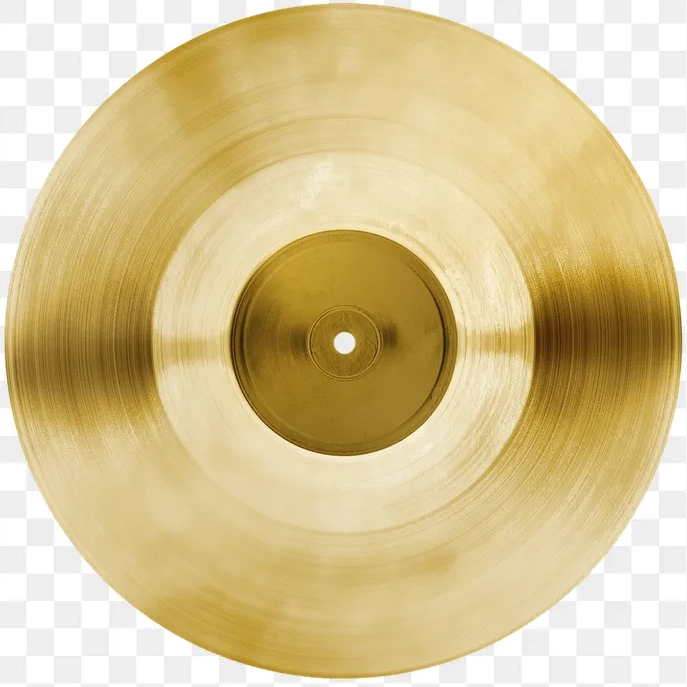
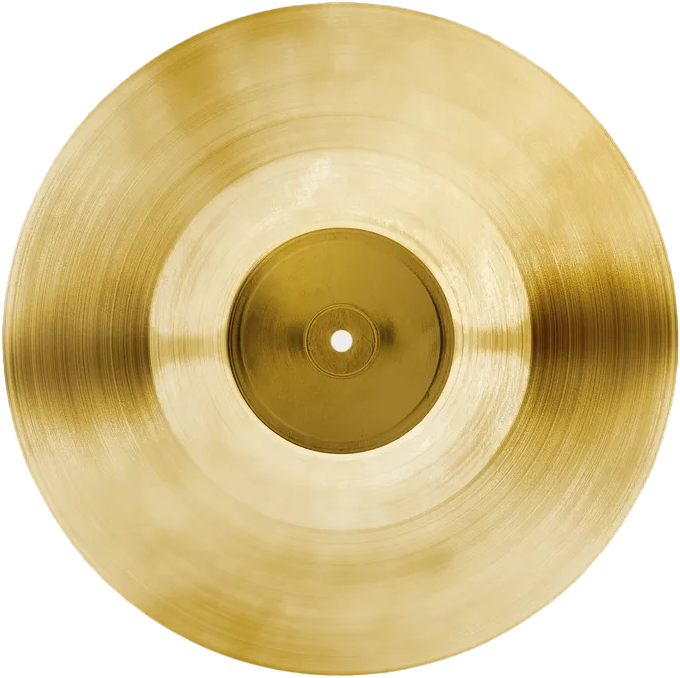
featured products 2

diff --git a/index.html b/index.html
@@ -117,7 +117,7 @@
     <div class="featureproducts">
       <h3>featured products</h3>
 
-      <div class="flex-container">
+      <div class="grid-container">
 
 <!-- item one -->
 
@@ -125,23 +125,21 @@
 
              <div class='vinyl'>
 
-             <img class='sleeve' src="images/cover_silk_sonic.jpg" alt="silk sonic" id="cover_1">
+             <img class='sleeve' src="./images/cover_silk_sonic.jpg" alt="silk sonic" id="cover_1">
              
-             <div class='record'>
-            </div>
+             <img class='record' src="./images/record_silk_sonic.png" alt="silk sonic record" id="record_1">
+            
         </div>
         <div id="grad1"></div>
        
       <div class="record_info">
       
-        <h5>Silk Sonic</h5>
-      <p>Silk Sonics debut project is announced! Featuring the singles Leave The Door Open and Skate, this is the highly anticipated joint release from two of the worlds best music makers.
-Silk Sonic won the BET Award for Best Group and the MTV Video Award for Best R&B Video and Best Editing for Leave The Door Open.</p>
-              
+        <h5>silk sonic</h5>
+      <p>Lorem, ipsum dolor sit amet consectetur adipisicing elit. Similique, unde esse voluptatum necessitatibus explicabo reprehenderit qui aut cum placeat dicta.
       </div>
 
           <div class="price-buy-now-container">
-            <h4>$80.00</h4>
+            <h4>aud $80.00</h4>
             <button><a href="#">Buy Now</a></button>
           </div>
     
@@ -153,26 +151,76 @@ Silk Sonic won the BET Award for Best Group and the MTV Video Award for Best R&B
 
              <div class='vinyl'>
 
-             <img class='sleeve' src="images/cover_silk_sonic.jpg" alt="silk sonic" id="cover_1">
+             <img class='sleeve' src="./images/cover_janis-joplin.jpeg" alt="silk sonic" id="cover_2">
              
-             <div class='record'>
-            </div>
+             <img class='record' src="./images/record_janis-record-joplin-janis.png" alt="silk sonic record" id="record_2">
+            
         </div>
         <div id="grad1"></div>
        
       <div class="record_info">
       
-        <h5>Silk Sonic</h5>
-      <p>Silk Sonics debut project is announced! Featuring the singles Leave The Door Open and Skate, this is the highly anticipated joint release from two of the worlds best music makers.
-Silk Sonic won the BET Award for Best Group and the MTV Video Award for Best R&B Video and Best Editing for Leave The Door Open.</p>
-              
+        <h5>janis joplin greatest hits</h5>
+      <p>Lorem, ipsum dolor sit amet consectetur adipisicing elit. Similique, unde esse voluptatum necessitatibus explicabo reprehenderit qui aut cum placeat dicta.
       </div>
 
           <div class="price-buy-now-container">
-            <h4>$80.00</h4>
+            <h4>aud $80.00</h4>
             <button><a href="#">Buy Now</a></button>
           </div>
     
+     </div>
+    <!-- item three -->
+
+        <div class="record_item">
+
+             <div class='vinyl'>
+
+             <img class='sleeve' src="./images/cover_silk_sonic.jpg" alt="silk sonic" id="cover_3">
+             
+             <img class='record' src="./images/record_silk_sonic.png" alt="silk sonic record" id="record_3">
+            
+        </div>
+        <div id="grad1"></div>
+       
+      <div class="record_info">
+      
+        <h5>silk sonic</h5>
+      <p>Lorem, ipsum dolor sit amet consectetur adipisicing elit. Similique, unde esse voluptatum necessitatibus explicabo reprehenderit qui aut cum placeat dicta.
+      </div>
+
+          <div class="price-buy-now-container">
+            <h4>aud $80.00</h4>
+            <button><a href="#">Buy Now</a></button>
+          </div>
+    
+     </div>
+
+<!-- item four -->
+
+        <div class="record_item">
+
+             <div class='vinyl'>
+
+             <img class='sleeve' src="./images/cover_janis-joplin.jpeg" alt="silk sonic" id="cover_4">
+             
+             <img class='record' src="./images/record_janis-record-joplin-janis.png" alt="silk sonic record" id="record_4">
+            
+        </div>
+        <div id="grad1"></div>
+       
+      <div class="record_info">
+      
+        <h5>janis joplin greatest hits</h5>
+      <p>Lorem, ipsum dolor sit amet consectetur adipisicing elit. Similique, unde esse voluptatum necessitatibus explicabo reprehenderit qui aut cum placeat dicta.
+      </div>
+
+          <div class="price-buy-now-container">
+            <h4>aud $80.00</h4>
+            <button><a href="#">Buy Now</a></button>
+          </div>
+    
+     </div>
      </div>
 
   

diff --git a/style.css b/style.css
@@ -262,24 +262,33 @@ button:hover {
   background-color: #fdfbf2;
 }
 
-.flex-container {
+h3 {
+  text-transform: uppercase;
+  font-weight: 500;
+  color: black;
+  font-size: 18px;
+  margin: 0px;
+  padding: 25px 10px 5px 10px;
+}
+
+.grid-container {
   display: grid;
-  flex-direction: column;
-  align-items: center;
+  grid-template-columns: 1fr;
+  justify-items: center;
+  column-gap: 10px;
+  row-gap: 15px;
+  overflow: hidden;
   padding: 10px;
-  background-color: DodgerBlue;
+  background-color: #fdfbf2;
 }
 
 .record_item {
   width: 100%;
   margin: 10px 10px;
-  background-color: rgb(244, 8, 173);
-  display: flex;
-  justify-content: center;
-  flex-direction: column;
-  height: 580px;
-  padding: 10px;
-  border-radius: 5px;
+  background-color: white;
+  height: 500px;
+  padding: 0px;
+  border-radius: 7px;
 }
 
 .record_info {
@@ -288,40 +297,36 @@ button:hover {
   line-height: normal;
   color: black;
   margin: 0;
-  padding: 25px 5px 5px 5px;
+  padding: 10px;
 }
 
 .vinyl {
   height: 320px;
   width: 100%;
-  background-image: linear-gradient(
-    to top,
-    rgba(255, 0, 0, 1),
-    rgba(255, 0, 0, 0)
-  );
+  padding: 10px;
+  background-image: linear-gradient(to bottom, #fdfbf2, rgba(255, 0, 0, 0));
 }
 
 .sleeve {
-  height: 300px;
-  width: 300px;
+  height: 290px;
+  width: 290px;
   position: absolute;
 }
 
 .record {
-  background: gold;
-  margin: 10px;
+  padding: 5px 0px;
   height: 285px;
   width: 285px;
-  border-radius: 50%;
   transition: 500ms;
   transition-timing-function: ease-out;
 }
 
 .vinyl:hover .record {
-  margin-left: 80px;
+  margin-left: 70px;
 }
 
 h5 {
+  text-transform: capitalize;
   color: black;
   font-size: 20px;
   font-weight: bold;
@@ -335,10 +340,11 @@ h5 {
   text-align: left;
   list-style-type: none;
   margin: 0;
-  padding: 5px;
+  padding: 10px;
 }
 
 .price-buy-now-container h4 {
+  text-transform: uppercase;
   color: black;
   font-size: 20px;
   font-weight: bold;
@@ -431,6 +437,10 @@ h5 {
     margin: 0;
     z-index: 5;
   }
+
+  .grid-container {
+    grid-template-columns: 1fr 1fr;
+  }
 }
 
 @media screen and (min-width: 992px) {
@@ -439,5 +449,41 @@ h5 {
     padding-right: 40px;
     padding-top: 18px;
     padding-bottom: 18px;
+  }
+}
+
+@media screen and (min-width: 1200px) {
+  .grid-container {
+    grid-template-columns: 1fr 1fr 1fr 1fr;
+  }
+
+  .record_item {
+    height: 420px;
+  }
+
+  .record_info {
+    padding: 10px 10px 0px;
+  }
+
+  .vinyl {
+    height: 220px;
+  }
+
+  .sleeve {
+    height: 200px;
+    width: 200px;
+  }
+  .price-buy-now-container h4 {
+    font-size: 18px;
+    font-weight: bold;
+  }
+
+  .record {
+    height: 190px;
+    width: 190px;
+  }
+
+  .vinyl:hover .record {
+    margin-left: 55px;
   }
 }
